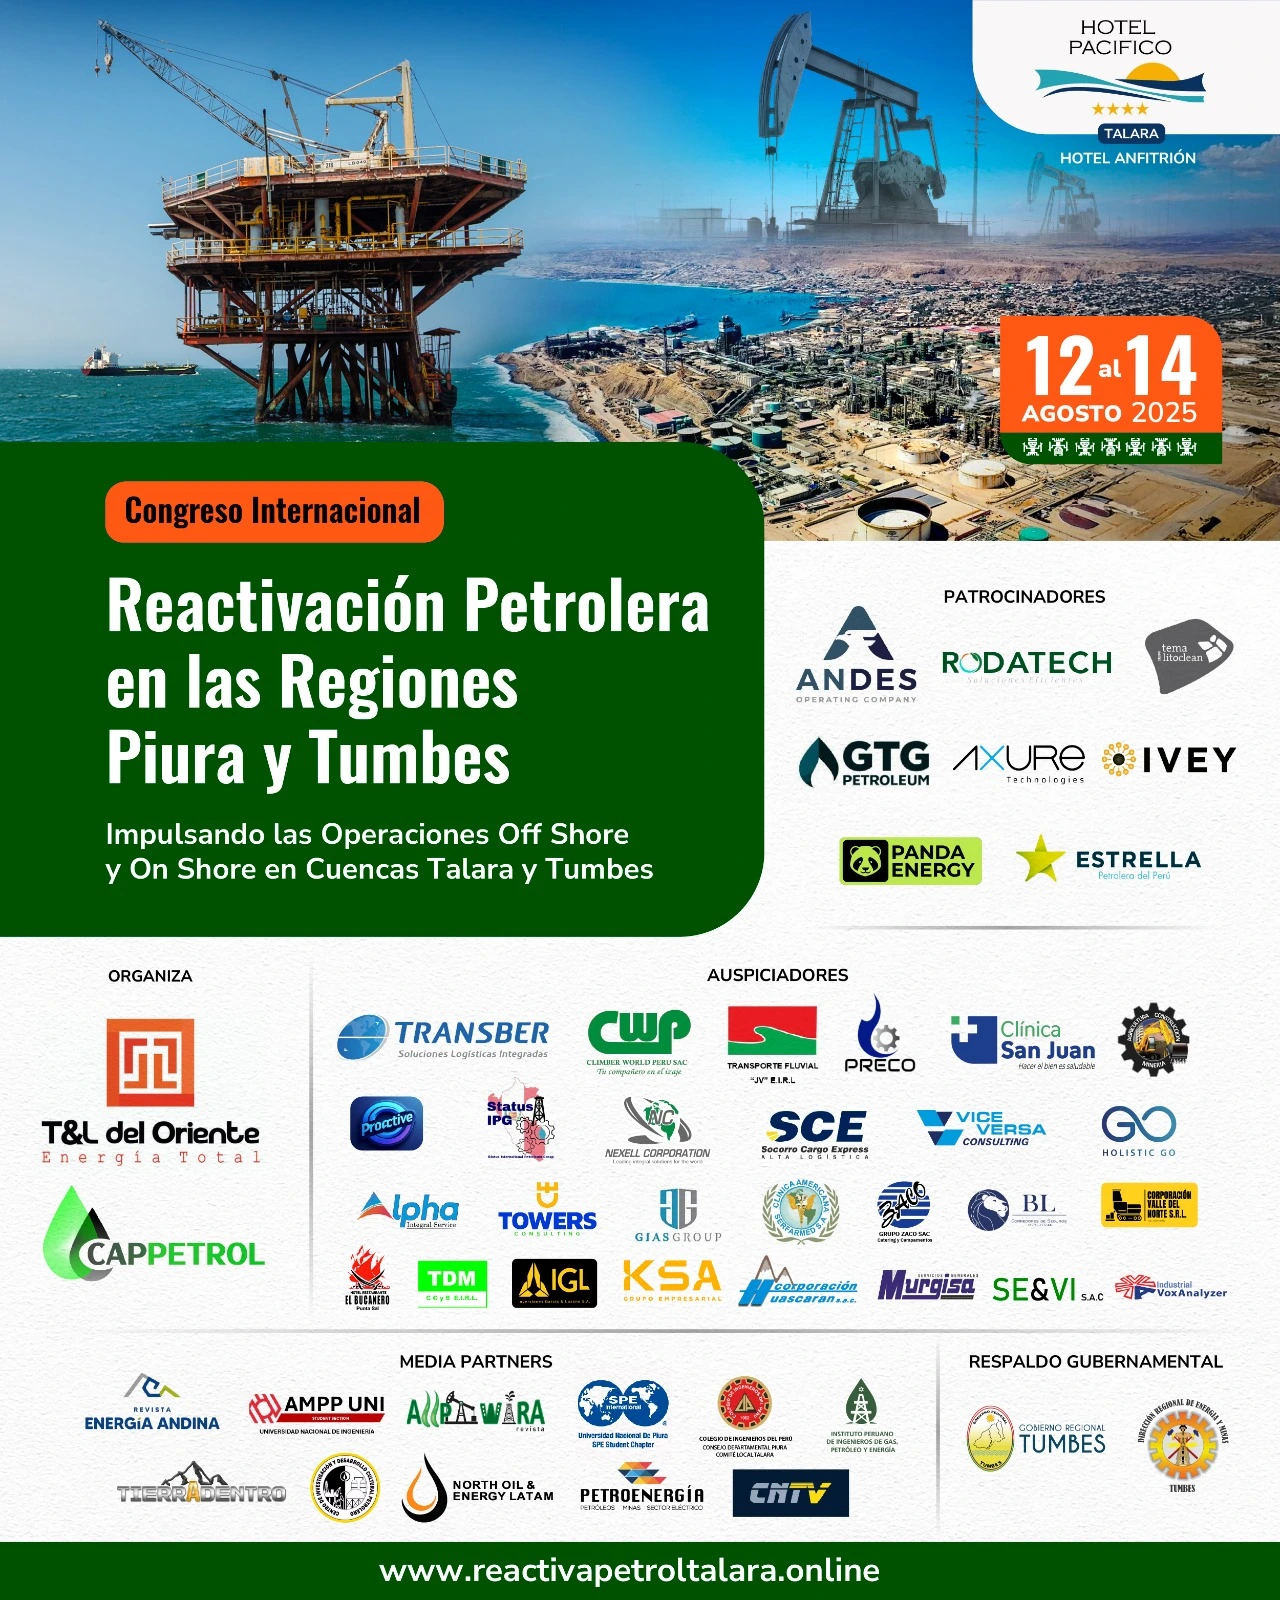
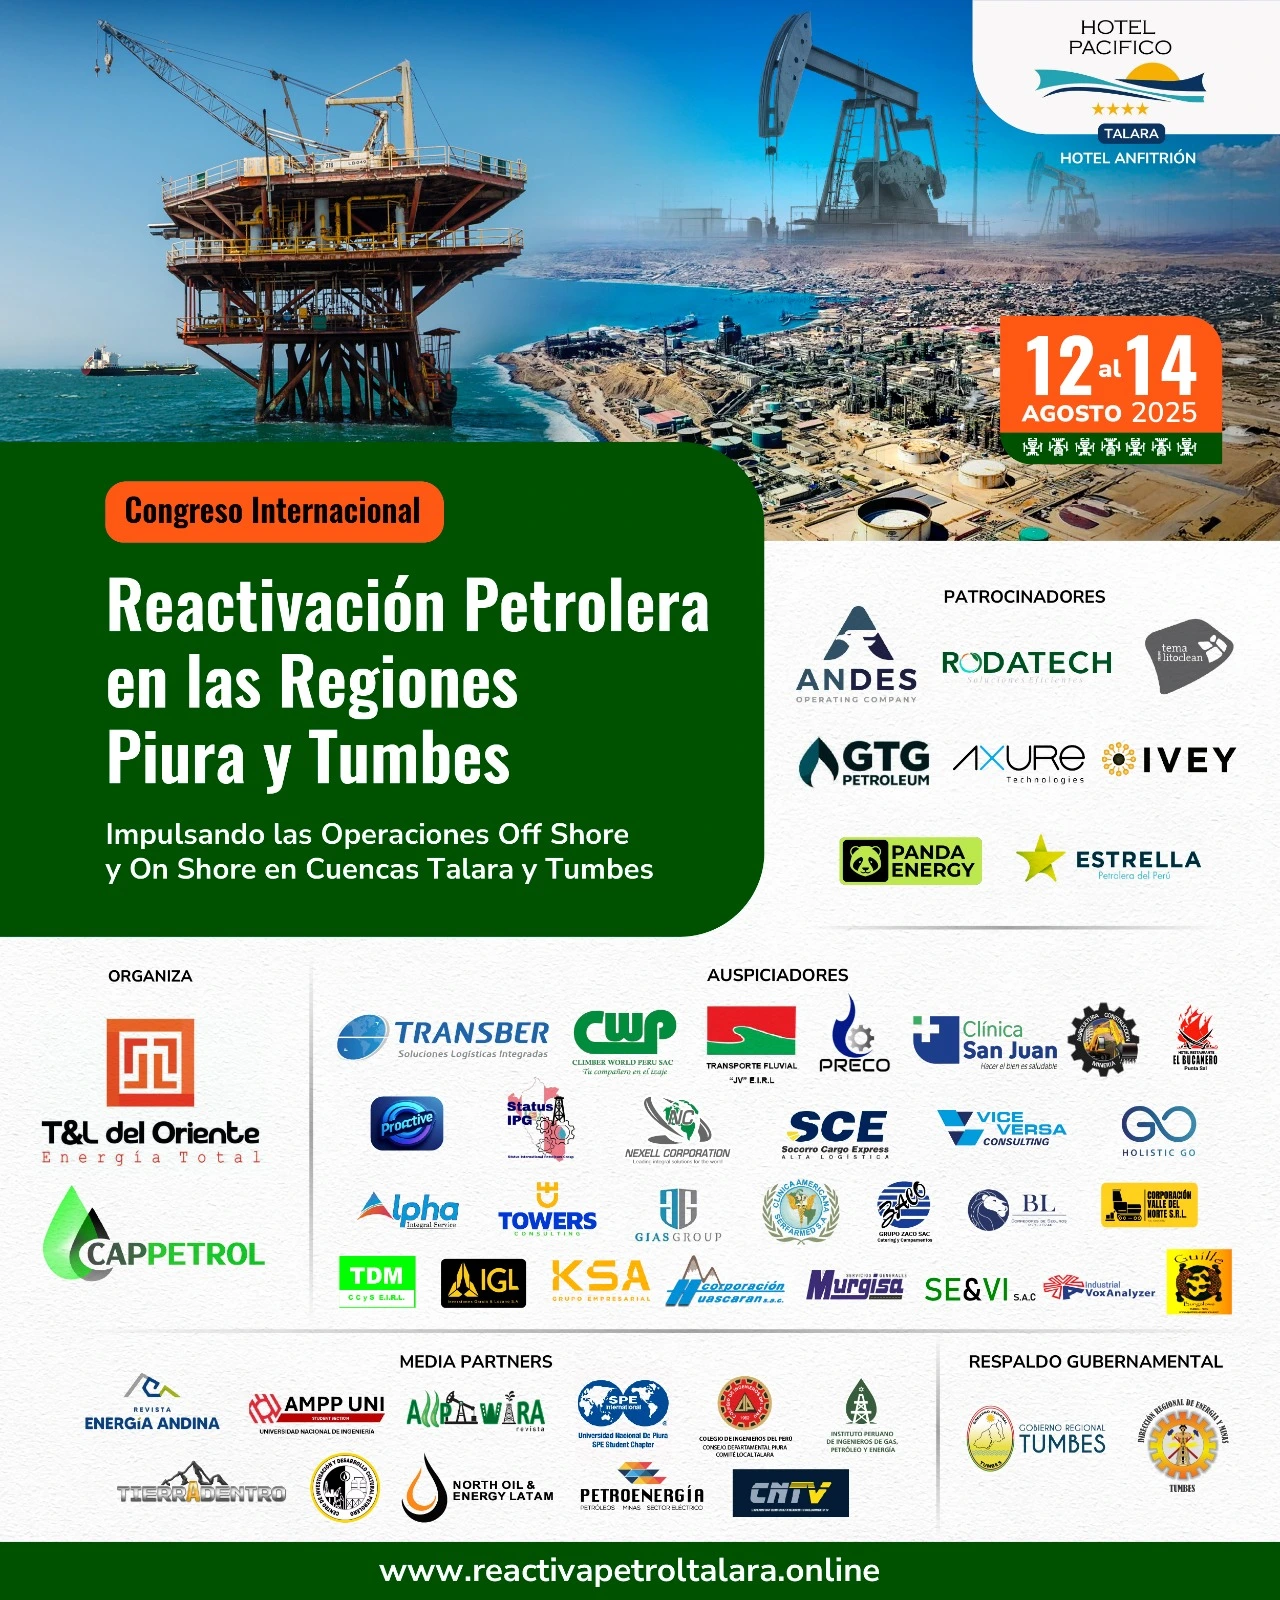
actualizacion de imagenes y nueva seccion

diff --git a/app/page.tsx b/app/page.tsx
@@ -1245,7 +1245,7 @@ export default function Home() {
                     (logo, index) => (
                       <div
                         key={index}
-                        className="bg-white rounded-lg border-2 border-amber-500 shadow-md hover:shadow-lg transition-all duration-300 w-fit max-w-full overflow-hidden group"
+                        className="bg-white rounded-lg border-2 border-amber-800 shadow-md hover:shadow-lg transition-all duration-300 w-fit max-w-full overflow-hidden group"
                       >
                         <Image
                           src={logo || "/placeholder.svg"}
@@ -1786,6 +1786,7 @@ export default function Home() {
             </div>
           </div>
         </section>
+
         {/* Media Partners */}
         <section id="media-partners" className="py-12 sm:py-16">
           <div className="container mx-auto px-2 sm:px-4">
@@ -1883,6 +1884,41 @@ export default function Home() {
                   )}
                 </div>
               ))}
+            </div>
+          </div>
+        </section>
+        {/* Respaldo Gubernamental */}
+        <section
+          id="respaldo-gubernamental"
+          className="py-12 sm:py-16 bg-slate-50"
+        >
+          <div className="container mx-auto px-2 sm:px-4">
+            <div className="text-center mb-12">
+              <h2 className="text-3xl font-bold mb-4 text-blue-700">
+                Respaldo Gubernamental
+              </h2>
+              <p className="text-lg text-gray-600 max-w-3xl mx-auto">
+                El evento cuenta con el respaldo de entidades gubernamentales
+                clave del sector energético.
+              </p>
+            </div>
+            <div className="grid grid-cols-1 sm:grid-cols-2 gap-6 md:gap-8 items-center justify-items-center">
+              {["/gob_reg_tumbes.webp", "/dir_reg_tumbes.webp"].map(
+                (logo, index) => (
+                  <div
+                    key={index}
+                    className="bg-white rounded-lg border-2 border-blue-700 shadow-md hover:shadow-lg transition-all duration-300 w-fit max-w-full overflow-hidden group"
+                  >
+                    <Image
+                      src={logo}
+                      alt={`Respaldo Gubernamental ${index + 1}`}
+                      width={480}
+                      height={140}
+                      className="object-contain group-hover:scale-[1.03] transition-transform duration-300"
+                    />
+                  </div>
+                )
+              )}
             </div>
           </div>
         </section>
